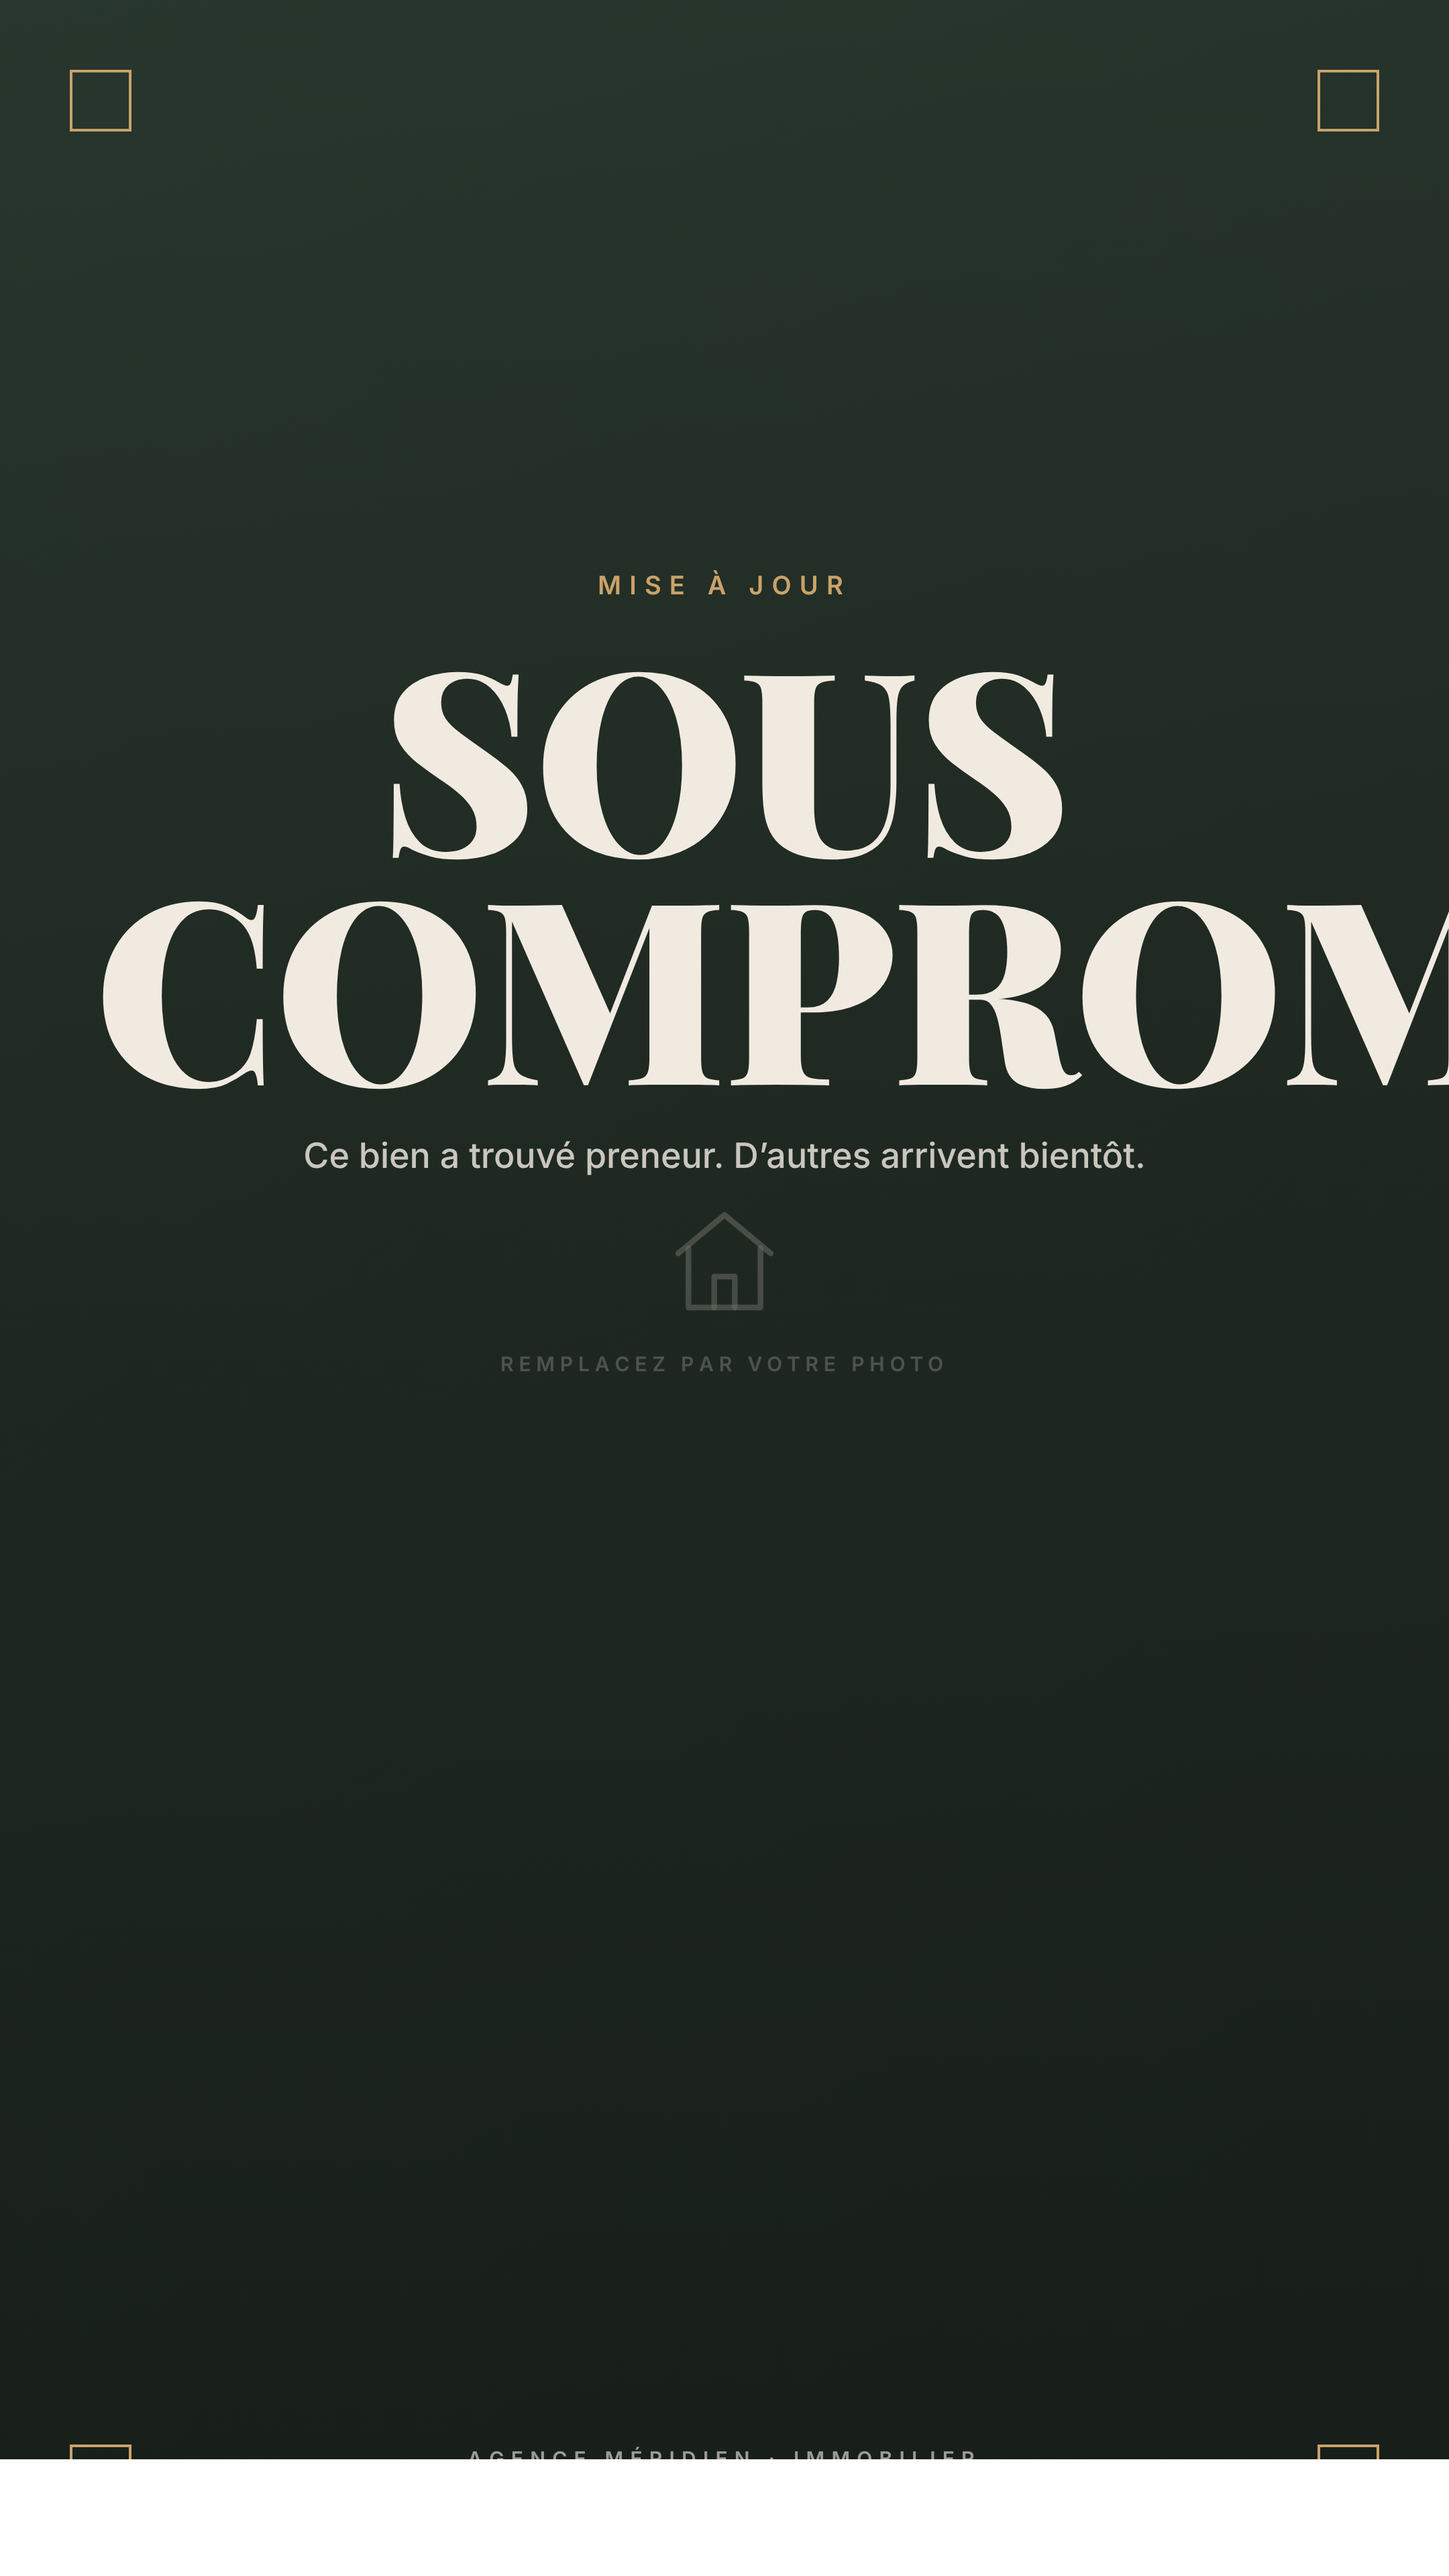
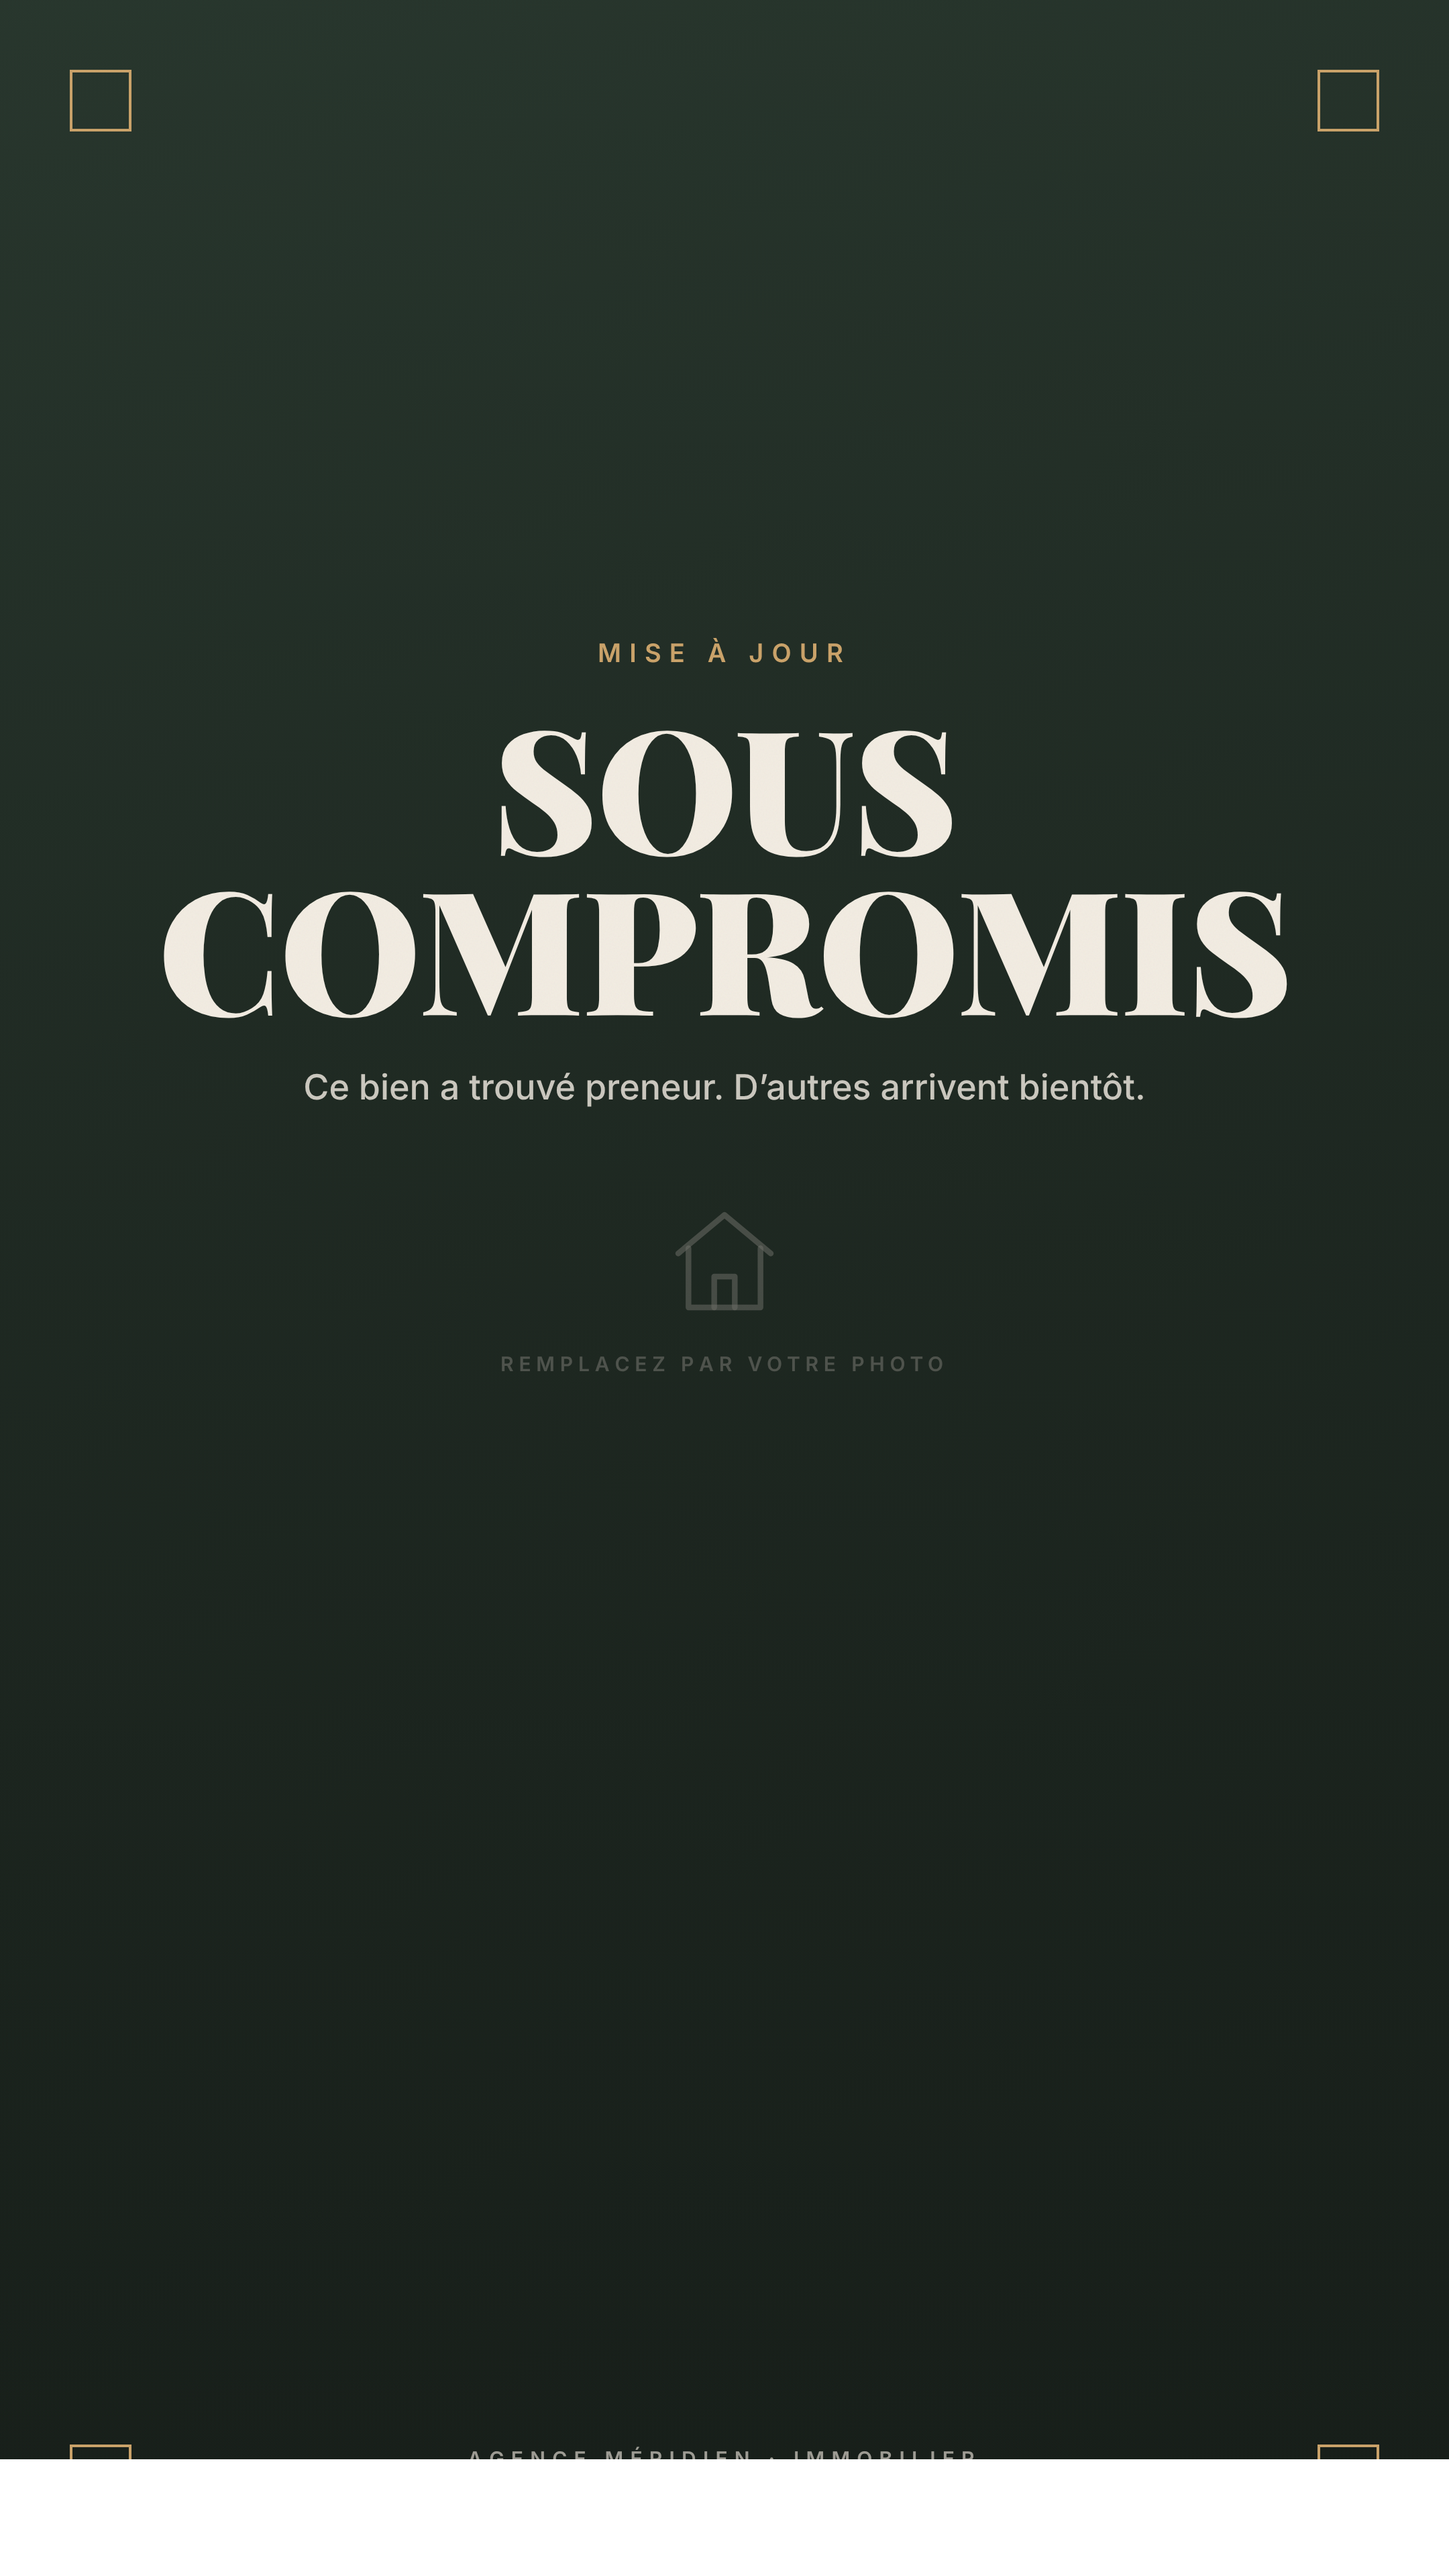
Fix long-word clipping on 'sous compromis' story + include html sources

Changed region(s): [[0.062, 0.25, 0.9926, 0.4688], [0.9926, 0.4062, 1.0, 0.4375], [0.9926, 0.3438, 1.0, 0.375]]

diff --git a/templates-canva-immobilier/build/generate.js b/templates-canva-immobilier/build/generate.js
@@ -150,7 +150,7 @@ function announce(cfg){
   ${corners(true)}
   <div style="position:absolute;left:0;right:0;top:${cfg.h>1400?'34%':'30%'};transform:translateY(-50%);text-align:center;padding:0 70px">
     <div class="eyebrow" style="color:${C.goldL}">${cfg.eyebrow||''}</div>
-    <div class="serif" style="font-size:${cfg.word?'190px':'120px'};font-weight:900;color:${C.paper};line-height:.9;margin:26px 0 0;letter-spacing:-.01em">${cfg.word||cfg.title}</div>
+    <div class="serif" style="font-size:${cfg.wordSize||(cfg.word?190:120)}px;font-weight:900;color:${C.paper};line-height:.94;margin:26px 0 0;letter-spacing:-.01em">${cfg.word||cfg.title}</div>
     ${cfg.sub?`<div style="font-family:'Inter';font-weight:500;font-size:26px;color:rgba(242,236,226,.82);margin-top:26px;line-height:1.5">${cfg.sub}</div>`:''}
   </div>
   <div style="position:absolute;left:0;right:0;bottom:78px;text-align:center;padding:0 70px">
@@ -388,7 +388,7 @@ const T = [
   {id:'07-story-estimation', size:S, fn:ctaCard, cfg:{dark:true, eyebrow:'Offert · sans engagement', title:'Estimation<br>gratuite',
     body:'Connaissez la vraie valeur de votre bien en 48h, réalisée par un expert de votre secteur.',
     cta:'Demander mon estimation', swipe:'Balayez vers le haut'}},
-  {id:'08-story-sous-compromis', size:S, fn:announce, cfg:{dark:true, eyebrow:'Mise à jour', word:'SOUS<br>COMPROMIS',
+  {id:'08-story-sous-compromis', size:S, fn:announce, cfg:{dark:true, eyebrow:'Mise à jour', word:'SOUS<br>COMPROMIS', wordSize:128,
     sub:'Ce bien a trouvé preneur. D’autres arrivent bientôt.'}},
   {id:'09-story-temoignage', size:S, fn:quoteCard, cfg:{dark:true, quote:'Camille a vendu notre maison en un temps record, avec un vrai professionnalisme. On recommande à 100%.',
     who:'Julie & Marc', role:'Vendeurs à Bordeaux'}},

diff --git a/templates-canva-immobilier/html/14-story-bientot.html b/templates-canva-immobilier/html/14-story-bientot.html
@@ -52,7 +52,7 @@ html,body{width:1080px;height:1920px}
     <span style="position:absolute;bottom:0;right:0;border-left:0;border-top:0;width:46px;height:46px;border:2px solid #CBA36A;"></span></div>
   <div style="position:absolute;left:0;right:0;top:34%;transform:translateY(-50%);text-align:center;padding:0 70px">
     <div class="eyebrow" style="color:#CBA36A">À ne pas manquer</div>
-    <div class="serif" style="font-size:190px;font-weight:900;color:#F2ECE2;line-height:.9;margin:26px 0 0;letter-spacing:-.01em">BIENTÔT<br>DISPO</div>
+    <div class="serif" style="font-size:190px;font-weight:900;color:#F2ECE2;line-height:.94;margin:26px 0 0;letter-spacing:-.01em">BIENTÔT<br>DISPO</div>
     <div style="font-family:'Inter';font-weight:500;font-size:26px;color:rgba(242,236,226,.82);margin-top:26px;line-height:1.5">Un bien rare arrive dans ce secteur très recherché.</div>
   </div>
   <div style="position:absolute;left:0;right:0;bottom:78px;text-align:center;padding:0 70px">

diff --git a/templates-canva-immobilier/html/08-story-sous-compromis.html b/templates-canva-immobilier/html/08-story-sous-compromis.html
@@ -52,7 +52,7 @@ html,body{width:1080px;height:1920px}
     <span style="position:absolute;bottom:0;right:0;border-left:0;border-top:0;width:46px;height:46px;border:2px solid #CBA36A;"></span></div>
   <div style="position:absolute;left:0;right:0;top:34%;transform:translateY(-50%);text-align:center;padding:0 70px">
     <div class="eyebrow" style="color:#CBA36A">Mise à jour</div>
-    <div class="serif" style="font-size:190px;font-weight:900;color:#F2ECE2;line-height:.9;margin:26px 0 0;letter-spacing:-.01em">SOUS<br>COMPROMIS</div>
+    <div class="serif" style="font-size:128px;font-weight:900;color:#F2ECE2;line-height:.94;margin:26px 0 0;letter-spacing:-.01em">SOUS<br>COMPROMIS</div>
     <div style="font-family:'Inter';font-weight:500;font-size:26px;color:rgba(242,236,226,.82);margin-top:26px;line-height:1.5">Ce bien a trouvé preneur. D’autres arrivent bientôt.</div>
   </div>
   <div style="position:absolute;left:0;right:0;bottom:78px;text-align:center;padding:0 70px">

diff --git a/templates-canva-immobilier/html/06-story-nouveau-bien.html b/templates-canva-immobilier/html/06-story-nouveau-bien.html
@@ -52,7 +52,7 @@ html,body{width:1080px;height:1920px}
     <span style="position:absolute;bottom:0;right:0;border-left:0;border-top:0;width:46px;height:46px;border:2px solid #CBA36A;"></span></div>
   <div style="position:absolute;left:0;right:0;top:34%;transform:translateY(-50%);text-align:center;padding:0 70px">
     <div class="eyebrow" style="color:#CBA36A">Tout juste disponible</div>
-    <div class="serif" style="font-size:190px;font-weight:900;color:#F2ECE2;line-height:.9;margin:26px 0 0;letter-spacing:-.01em">NOUVEAU</div>
+    <div class="serif" style="font-size:190px;font-weight:900;color:#F2ECE2;line-height:.94;margin:26px 0 0;letter-spacing:-.01em">NOUVEAU</div>
     <div style="font-family:'Inter';font-weight:500;font-size:26px;color:rgba(242,236,226,.82);margin-top:26px;line-height:1.5">Un nouveau bien vient d’arriver dans votre secteur.</div>
   </div>
   <div style="position:absolute;left:0;right:0;bottom:78px;text-align:center;padding:0 70px">

diff --git a/templates-canva-immobilier/html/02-story-vendu.html b/templates-canva-immobilier/html/02-story-vendu.html
@@ -52,7 +52,7 @@ html,body{width:1080px;height:1920px}
     <span style="position:absolute;bottom:0;right:0;border-left:0;border-top:0;width:46px;height:46px;border:2px solid #CBA36A;"></span></div>
   <div style="position:absolute;left:0;right:0;top:34%;transform:translateY(-50%);text-align:center;padding:0 70px">
     <div class="eyebrow" style="color:#CBA36A">Encore une réussite</div>
-    <div class="serif" style="font-size:190px;font-weight:900;color:#F2ECE2;line-height:.9;margin:26px 0 0;letter-spacing:-.01em">VENDU</div>
+    <div class="serif" style="font-size:190px;font-weight:900;color:#F2ECE2;line-height:.94;margin:26px 0 0;letter-spacing:-.01em">VENDU</div>
     <div style="font-family:'Inter';font-weight:500;font-size:26px;color:rgba(242,236,226,.82);margin-top:26px;line-height:1.5">Vendu en 3 semaines, au prix affiché.</div>
   </div>
   <div style="position:absolute;left:0;right:0;bottom:78px;text-align:center;padding:0 70px">

diff --git a/templates-canva-immobilier/html/17-post-vendu.html b/templates-canva-immobilier/html/17-post-vendu.html
@@ -52,7 +52,7 @@ html,body{width:1080px;height:1080px}
     <span style="position:absolute;bottom:0;right:0;border-left:0;border-top:0;width:46px;height:46px;border:2px solid #CBA36A;"></span></div>
   <div style="position:absolute;left:0;right:0;top:30%;transform:translateY(-50%);text-align:center;padding:0 70px">
     <div class="eyebrow" style="color:#CBA36A">Mission accomplie</div>
-    <div class="serif" style="font-size:190px;font-weight:900;color:#F2ECE2;line-height:.9;margin:26px 0 0;letter-spacing:-.01em">VENDU</div>
+    <div class="serif" style="font-size:190px;font-weight:900;color:#F2ECE2;line-height:.94;margin:26px 0 0;letter-spacing:-.01em">VENDU</div>
     <div style="font-family:'Inter';font-weight:500;font-size:26px;color:rgba(242,236,226,.82);margin-top:26px;line-height:1.5">Au prix, en moins de 30 jours.</div>
   </div>
   <div style="position:absolute;left:0;right:0;bottom:78px;text-align:center;padding:0 70px">
